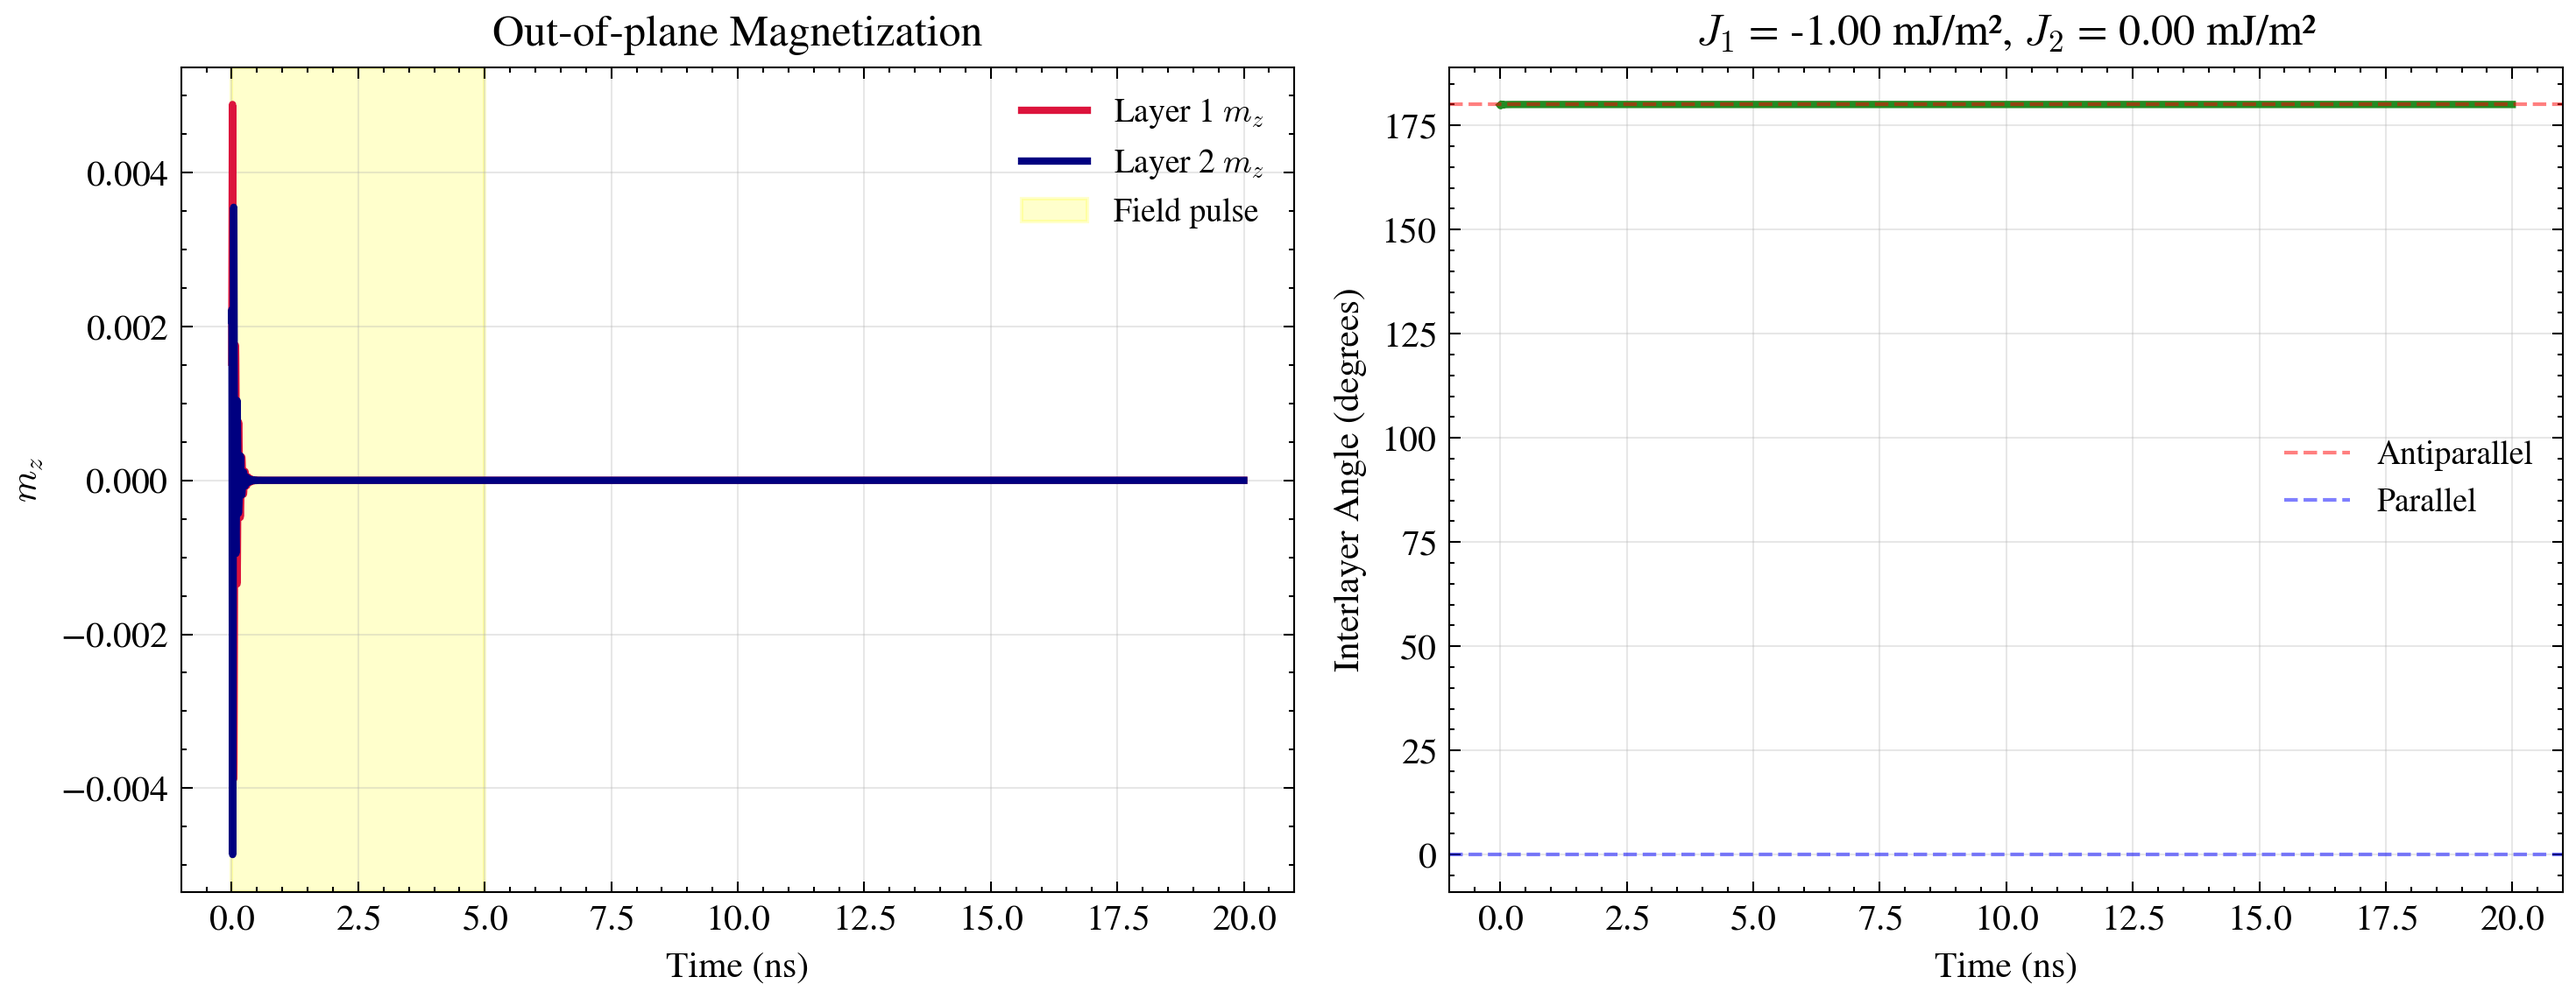
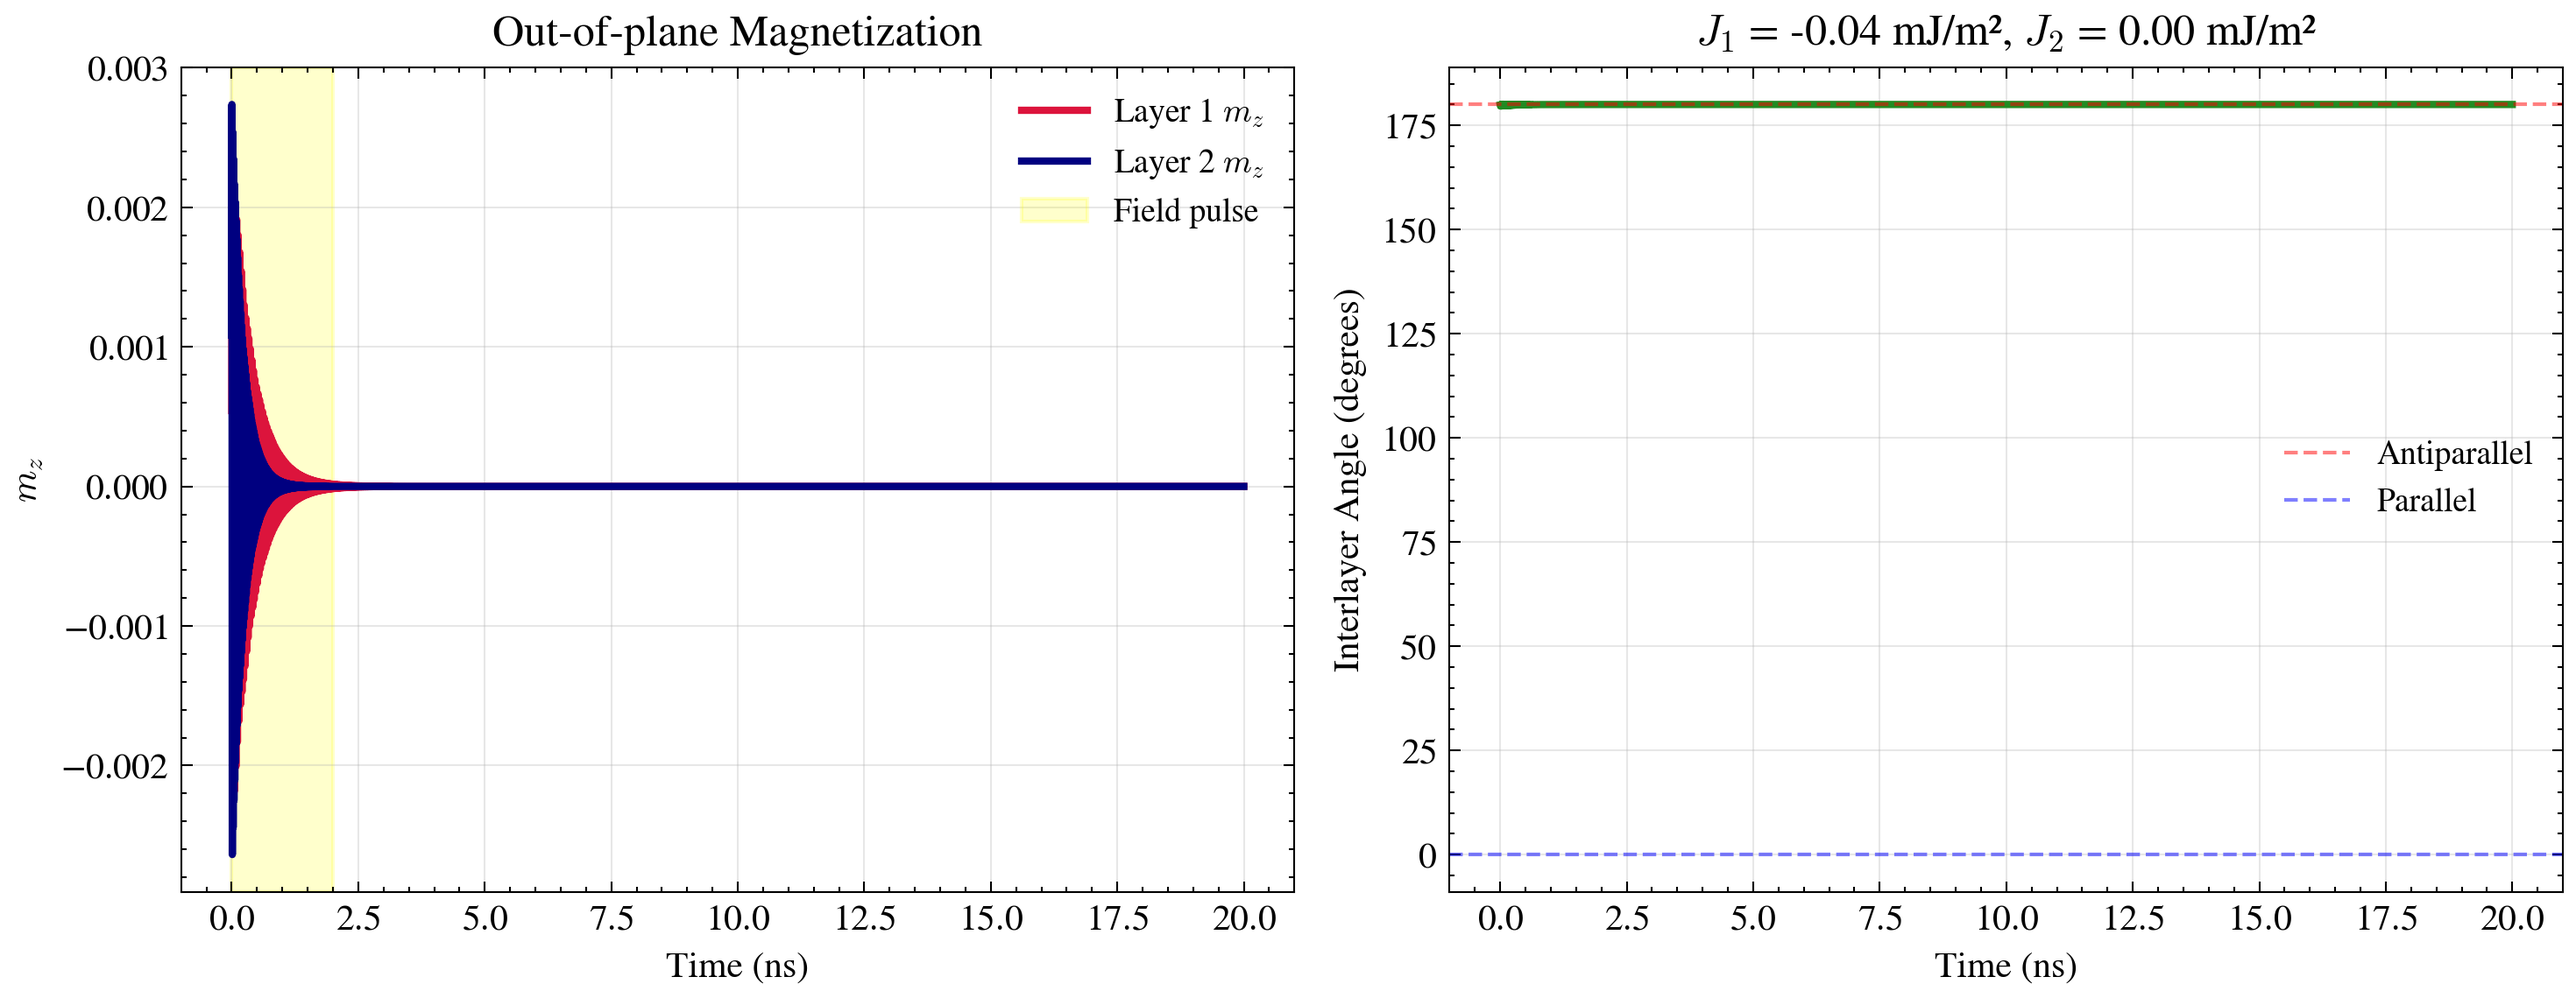
Use documented layer parameters from tutorials instead of arbitrary values

diff --git a/curated-examples/iec-coupling.py b/curated-examples/iec-coupling.py
@@ -38,47 +38,46 @@ from cmtj import AxialDriver, CVector, Junction, Layer, constantDriver
 with contextlib.suppress(ImportError):
     import scienceplots  # noqa: F401
 
-# Layer parameters following AGENTS.md guidelines
-# Ms in Tesla for core Layer objects (not A/m)
-Ms1 = 1.0  # Free layer saturation magnetization [T]
-Ms2 = 0.8  # Fixed layer saturation magnetization [T]
+# Layer parameters from documentation (docs/tutorials)
+# Ms in Tesla for core Layer objects
+Ms1 = 1.0  # Free layer - typical from trajectory.ipynb
+Ms2 = 1.2  # Reference layer - typical from trajectory.ipynb
 
-# Anisotropy values - reduced for observable dynamics
-Ku1 = 100e3  # Free layer anisotropy [J/m^3]
-Ku2 = 80e3  # Fixed layer anisotropy [J/m^3]
+# Anisotropy values from documentation
+Ku1 = 300e3  # Free layer [J/m^3] - from trajectory.ipynb IEC example
+Ku2 = 800e3  # Reference layer [J/m^3] - from trajectory.ipynb IEC example
 
-# Anisotropy direction - in-plane for better dynamics with perpendicular field
+# Anisotropy direction - in-plane (along x)
 Kdir = CVector(1, 0, 0)
 
-# Damping in recommended range
-damping1 = 0.02
-damping2 = 0.015
+# Damping from documentation
+damping1 = 0.011  # Low damping - from trajectory.ipynb IEC example
+damping2 = 0.011
 
-# Demagnetization tensors - removed to simplify
-demag1 = [CVector(0, 0, 0), CVector(0, 0, 0), CVector(0, 0, 0)]
-demag2 = [CVector(0, 0, 0), CVector(0, 0, 0), CVector(0, 0, 0)]
+# Standard thin film demagnetization tensor from documentation
+demag = [CVector(0, 0, 0), CVector(0, 0, 0), CVector(0, 0, 1.0)]
 
-# Create two coupled magnetic layers with in-plane initial magnetization
+# Create two coupled magnetic layers with in-plane magnetization
 l1 = Layer(
     "layer1",
     mag=CVector(1.0, 0, 0),  # Initially along +x
     anis=Kdir,
     Ms=Ms1,
-    thickness=1.5e-9,
+    thickness=1.4e-9,  # Typical from docs
     damping=damping1,
-    demagTensor=demag1,
-    cellSurface=np.pi * (50e-9) ** 2,  # Circular cross-section
+    demagTensor=demag,
+    cellSurface=7e-10 * 7e-10,  # From trajectory.ipynb
 )
 
 l2 = Layer(
     "layer2",
-    mag=CVector(-1.0, 0, 0),  # Initially along -x (antiparallel due to IEC)
+    mag=CVector(-1.0, 0, 0),  # Initially along -x (antiparallel)
     anis=Kdir,
     Ms=Ms2,
-    thickness=1.2e-9,
+    thickness=3e-9,  # Thicker reference layer from trajectory.ipynb
     damping=damping2,
-    demagTensor=demag2,
-    cellSurface=np.pi * (50e-9) ** 2,
+    demagTensor=demag,
+    cellSurface=7e-10 * 7e-10,
 )
 
 # Set anisotropy drivers
@@ -88,18 +87,18 @@ l2.setAnisotropyDriver(constantDriver(Ku2))
 # Create junction with both layers
 junction = Junction([l1, l2])
 
-# Set IEC coupling (negative J1 for antiferromagnetic coupling)
-# J in mJ/m^2, typical range ±0.001 to ±3.0 according to AGENTS.md
-J_linear = -1.0e-3  # -1.0 mJ/m^2, stronger antiferromagnetic coupling
-J_quad = 0.0  # Remove quadratic term for simplicity
+# Set IEC coupling from documentation
+# trajectory.ipynb uses J = -4e-5 J/m² = -0.04 mJ/m²
+J_linear = -4e-5  # J/m² - from trajectory.ipynb IEC example
+J_quad = 0.0  # No quadratic term
 
 junction.setIECDriver("layer1", "layer2", constantDriver(J_linear))
 junction.setQuadIECDriver("layer1", "layer2", constantDriver(J_quad))
 
 # Apply external field pulse to perturb the system
-# Field strength in typical range (±0 – ±500e3 A/m)
-field_amplitude = 200e3  # A/m - stronger field for clear dynamics
-field_duration = 5e-9  # 5 ns pulse - longer for observable effect
+# Using typical values from trajectory.ipynb
+field_amplitude = 100e3  # A/m - moderate field
+field_duration = 2e-9  # 2 ns pulse
 
 # Create field pulse function
 def field_pulse(t):

diff --git a/curated-examples/switching-hysteresis.py b/curated-examples/switching-hysteresis.py
@@ -37,29 +37,29 @@ from cmtj import AxialDriver, CVector, Junction, Layer, ScalarDriver, constantDr
 with contextlib.suppress(ImportError):
     import scienceplots  # noqa: F401
 
-# Layer parameters following AGENTS.md guidelines
+# Layer parameters from documentation (docs/tutorials and docs/experimental-methods)
 # Ms in Tesla for core Layer objects
-Ms = 1.0  # Saturation magnetization [T]
+Ms = 1.0  # Saturation magnetization [T] - typical from docs
 
-# In-plane anisotropy for clear hysteresis with perpendicular field
-Ku = 80e3  # Anisotropy constant [J/m^3]
+# In-plane anisotropy - using documented value
+Ku = 800e3  # Anisotropy constant [J/m^3] - from trajectory.ipynb example
 
-# Anisotropy direction - IN-PLANE (along x) for perpendicular field sweep
+# Anisotropy direction - in-plane (along x)
 Kdir = CVector(1, 0, 0)
 
-# Damping in recommended range (0.01-0.03)
-damping = 0.02
+# Damping from documentation
+damping = 0.03  # Gilbert damping - from trajectory.ipynb
 
-# Demagnetization tensor - set to zero
-demag = [CVector(0, 0, 0), CVector(0, 0, 0), CVector(0, 0, 0)]
+# Standard thin film demagnetization tensor from documentation
+demag = [CVector(0, 0, 0), CVector(0, 0, 0), CVector(0, 0, 1.0)]
 
-# Create single magnetic layer with IN-PLANE initial magnetization
+# Create single magnetic layer with in-plane initial magnetization
 layer = Layer(
     "free",
-    mag=CVector(1.0, 0, 0),  # Start with in-plane magnetization
+    mag=CVector(1.0, 0, 0),  # Start aligned with easy axis
     anis=Kdir,
     Ms=Ms,
-    thickness=1.5e-9,
+    thickness=1.4e-9,  # Typical thickness from docs
     damping=damping,
     demagTensor=demag,
     cellSurface=np.pi * (40e-9) ** 2,  # Circular cross-section
@@ -71,9 +71,9 @@ layer.setAnisotropyDriver(constantDriver(Ku))
 # Create junction
 junction = Junction([layer])
 
-# Field sweep parameters - perpendicular to easy axis
-H_max = 150e3  # Maximum field [A/m] along z
-H_min = -150e3  # Minimum field [A/m]
+# Field sweep parameters - perpendicular to easy axis for rotation
+H_max = 250e3  # Maximum field [A/m] - typical range from docs
+H_min = -250e3  # Minimum field [A/m]
 H_steps = 60  # Number of field steps
 
 # Create field sweep: down sweep first, then up sweep
